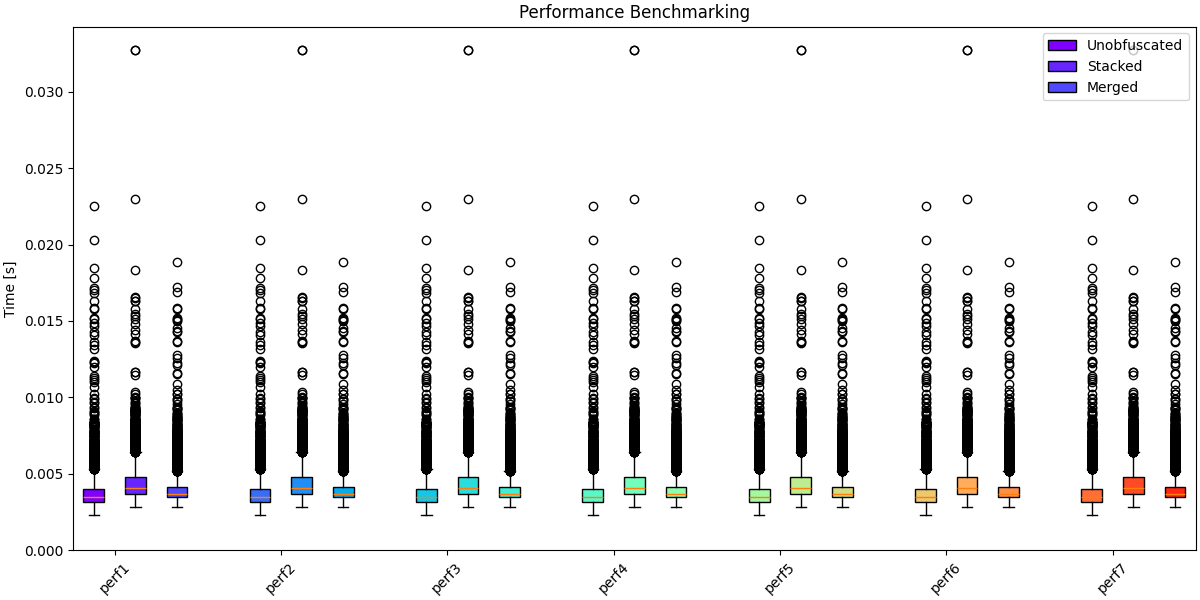
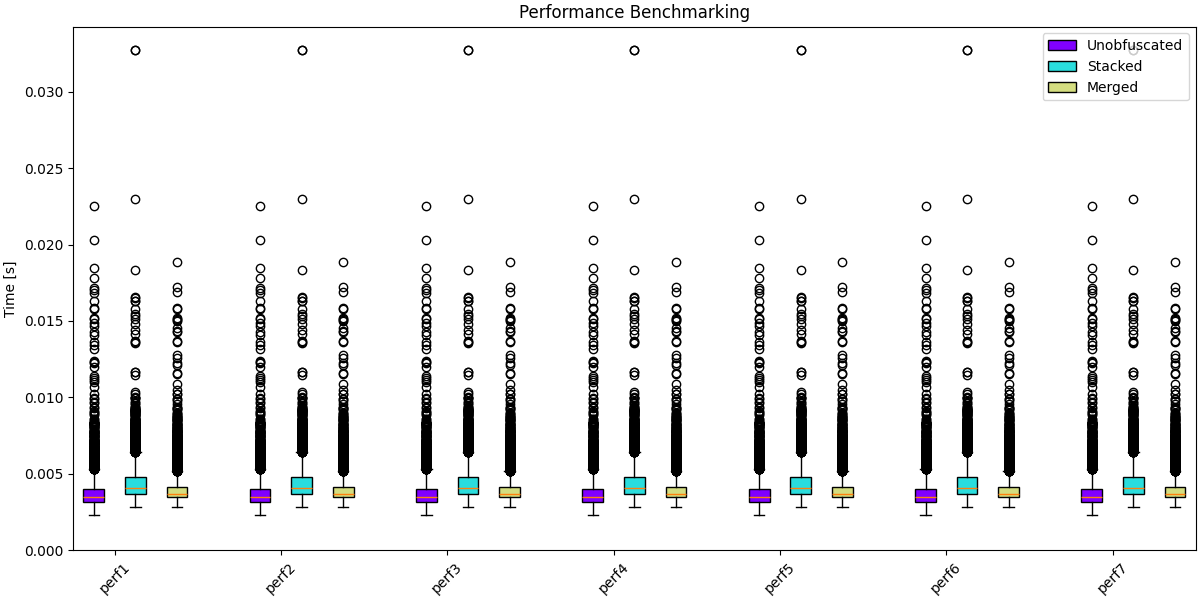
Update stats.py to maintain color scheme

diff --git a/benchmarks/correctness/stats.py b/benchmarks/correctness/stats.py
@@ -1,0 +1,104 @@
+#!/usr/bin/env python
+# /// script
+# requires-python = ">=3.10"
+# dependencies = [
+#     "matplotlib",
+#     "pyqt6",
+# ]
+# ///
+
+"""This program shows `hyperfine` benchmark results as a grouped box plot.
+
+Quoting from the matplotlib documentation:
+    The box extends from the lower to upper quartile values of the data, with
+    a line at the median. The whiskers extend from the box to show the range
+    of the data. Flier points are those past the end of the whiskers.
+"""
+
+import argparse
+import json
+import os
+import matplotlib.pyplot as plt
+
+parser = argparse.ArgumentParser(description=__doc__)
+parser.add_argument("files", nargs='+', help="JSON files with benchmark results")
+parser.add_argument("--title", help="Plot Title")
+parser.add_argument("--sort-by", choices=["median"], help="Sort method")
+parser.add_argument(
+    "--labels", help="Comma-separated list of entries for the plot legend"
+)
+parser.add_argument("-o", "--output", help="Save image to the given filename.")
+
+args = parser.parse_args()
+
+all_times = []
+all_labels = []
+all_file_names = []
+
+for file in args.files:
+    with open(file, encoding="utf-8") as f:
+        results = json.load(f)["results"]
+    
+    # Extract labels and times
+    if args.labels:
+        labels = args.labels.split(",")
+    else:
+        labels = [b["command"] for b in results]
+    
+    times = [b["times"] for b in results]
+
+    if args.sort_by == "median":
+        medians = [b["median"] for b in results]
+        indices = sorted(range(len(labels)), key=lambda k: medians[k])
+        labels = [labels[i] for i in indices]
+        times = [times[i] for i in indices]
+    
+    all_times.append(times)
+    all_labels = labels  # Assume labels are the same for each file
+    all_file_names.append(os.path.basename(file).split(".")[0])  # Group name is file name
+
+# Set the number of boxes per group (same for all files)
+num_boxes_per_group = len(all_times[0])
+
+# Calculate positions of each group (side by side with little gap between groups)
+positions = []
+gap = 1  # Control the gap between groups (set to 1 for tight grouping)
+for i in range(len(all_times)):
+    positions.extend([i * (num_boxes_per_group + gap) + j + 1 for j in range(num_boxes_per_group)])
+
+# Flatten the list of times to make box plot data
+flat_times = [item for sublist in all_times for item in sublist]
+
+# Assign colors to each label (same color for same label across groups)
+cmap = plt.get_cmap("rainbow")
+color_map = {label: cmap(i / len(all_labels)) for i, label in enumerate(all_labels)}
+
+# Create the grouped box plot
+plt.figure(figsize=(12, 6), constrained_layout=True)
+
+boxplot = plt.boxplot(flat_times, positions=positions, vert=True, patch_artist=True)
+
+# Assign colors for each box plot based on the labels
+for patch, label in zip(boxplot["boxes"], flat_times):
+    label_idx = flat_times.index(label)
+    patch.set_facecolor(color_map[all_labels[label_idx]])
+
+# Set the labels and title
+if args.title:
+    plt.title(args.title)
+
+# Set x-tick labels as JSON file names, grouped side by side
+xticks = [i * (num_boxes_per_group + gap) + num_boxes_per_group / 2 for i in range(len(all_file_names))]
+plt.xticks(xticks, all_file_names, rotation=45)
+
+# Add legend for the box plots
+plt.legend(handles=boxplot["boxes"], labels=all_labels, loc="best", fontsize="medium")
+
+plt.ylabel("Time [s]")
+plt.ylim(0, None)
+
+# Save or show the plot
+if args.output:
+    plt.savefig(args.output)
+else:
+    plt.show()
